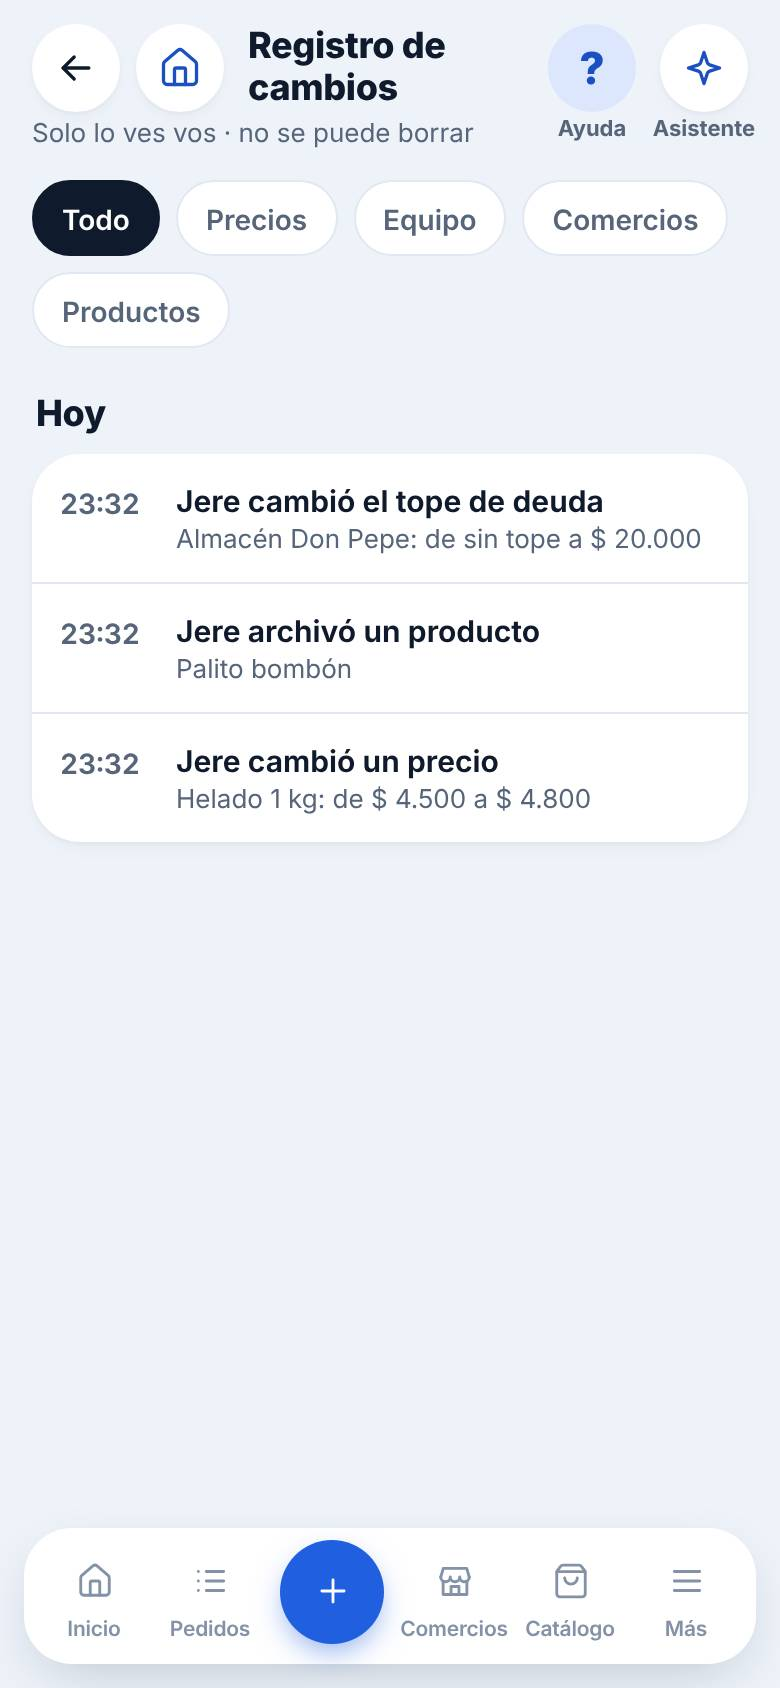
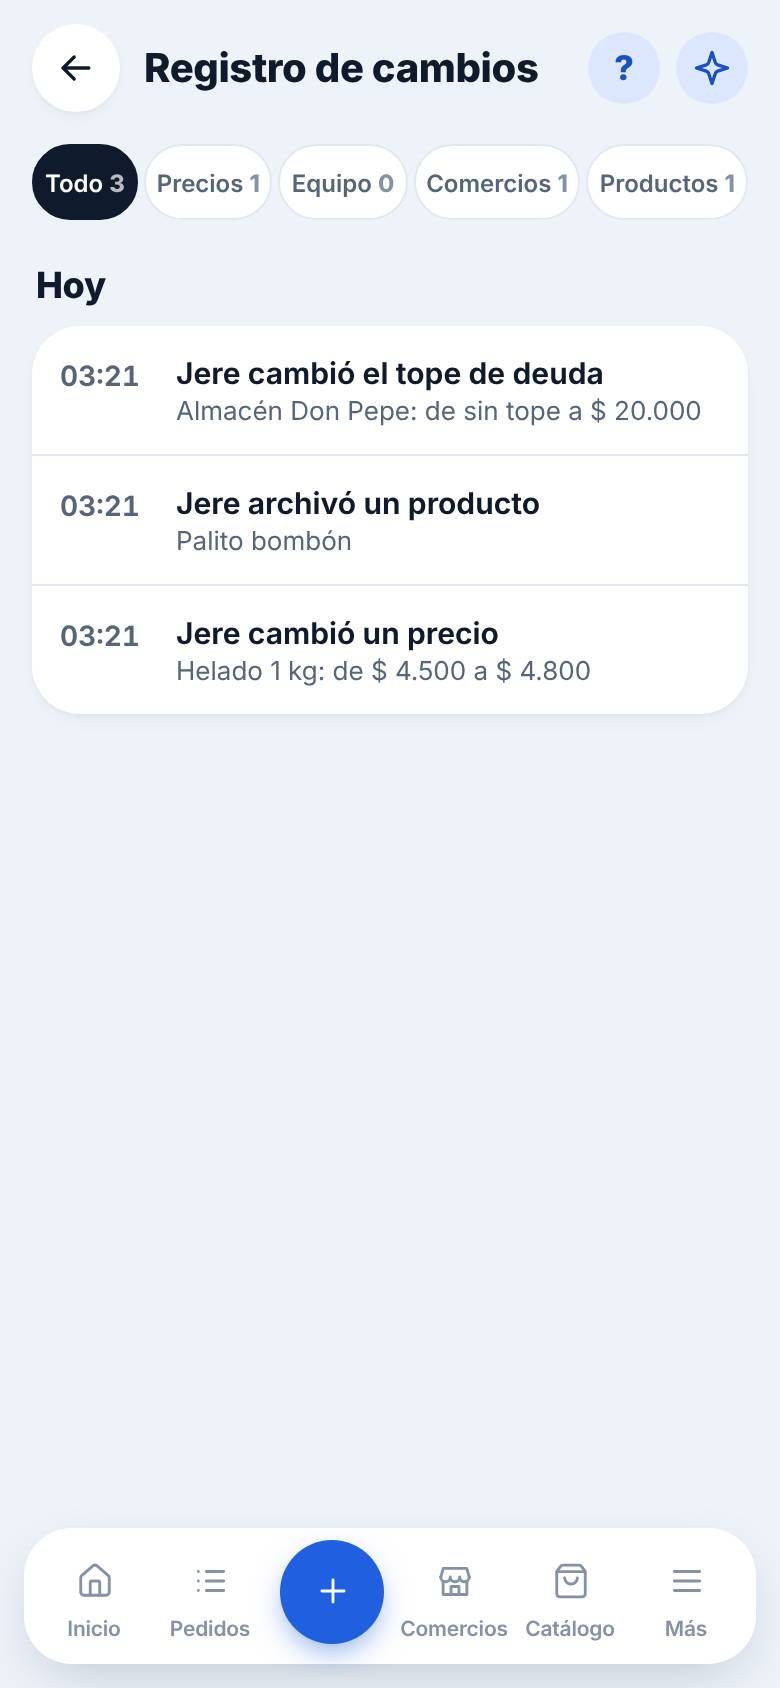
Registro de cambios: 5 filtros en una fila con el número adentro
Claude-Session: https://claude.ai/code/session_01VMQLWekCXSnFqmXcNiKAt8

diff --git a/cambios.js b/cambios.js
@@ -226,7 +226,7 @@
             if (grupo && grupo.dia === dia) grupo.cambios.push(cambio);
             else grupos.push({ dia, cambios: [cambio] });
         });
-        const filtros = TIPOS.map(tipo => `<button type="button" class="pzFiltro" data-tipo="${tipo.clave}" aria-pressed="${tipo.clave === filtro}">${tipo.texto}</button>`).join("");
+        const filtros = TIPOS.map(tipo => `<button type="button" class="pzFiltro" data-tipo="${tipo.clave}" aria-pressed="${tipo.clave === filtro}">${tipo.texto} <b>${tipo.clave === "todo" ? todos.length : todos.filter(cambio => cambio.tipo === tipo.clave).length}</b></button>`).join("");
         const cuerpo = grupos.length
             ? grupos.map(grupo => `<section class="pzBloque grupoCambios">
                     <div class="pzBloqueCab"><h2>${p.esc(grupo.dia)}</h2></div>

diff --git a/piezas.css b/piezas.css
@@ -430,7 +430,8 @@ body > section.pzPantalla > header .logo:empty{display:none;}
 #avisoListas small{font-size:14.5px;color:var(--texto);line-height:1.4;}
 .pzBotonesFijos > .pzBtn{width:100%;}
 /* ---------- Registro de cambios (T82) ---------- */
-#pantallaCambios .pzFiltros{flex-wrap:wrap;}
+#pantallaCambios .pzFiltros{gap:3px;}
+#pantallaCambios .pzFiltro{padding:0 5px;gap:3px;font-size:12px;flex:1 1 auto;justify-content:center;min-width:0;}
 .grupoCambios .pzBloqueCab{margin-top:10px;}
 .filaCambio{align-items:flex-start;padding-top:14px;padding-bottom:14px;}
 .horaCambio{flex-shrink:0;width:46px;padding-top:2px;font-size:14px;font-weight:650;color:var(--texto-sec);font-variant-numeric:tabular-nums;}

diff --git a/sw.js b/sw.js
@@ -1,7 +1,7 @@
 // =====================================================
 // VendeFrío - Service Worker (v164 - Estilo nuevo)
 // =====================================================
-const CACHE_NAME = "vendefrio-v284";
+const CACHE_NAME = "vendefrio-v285";
 const ARCHIVOS = [
   "./",
   "./index.html",
